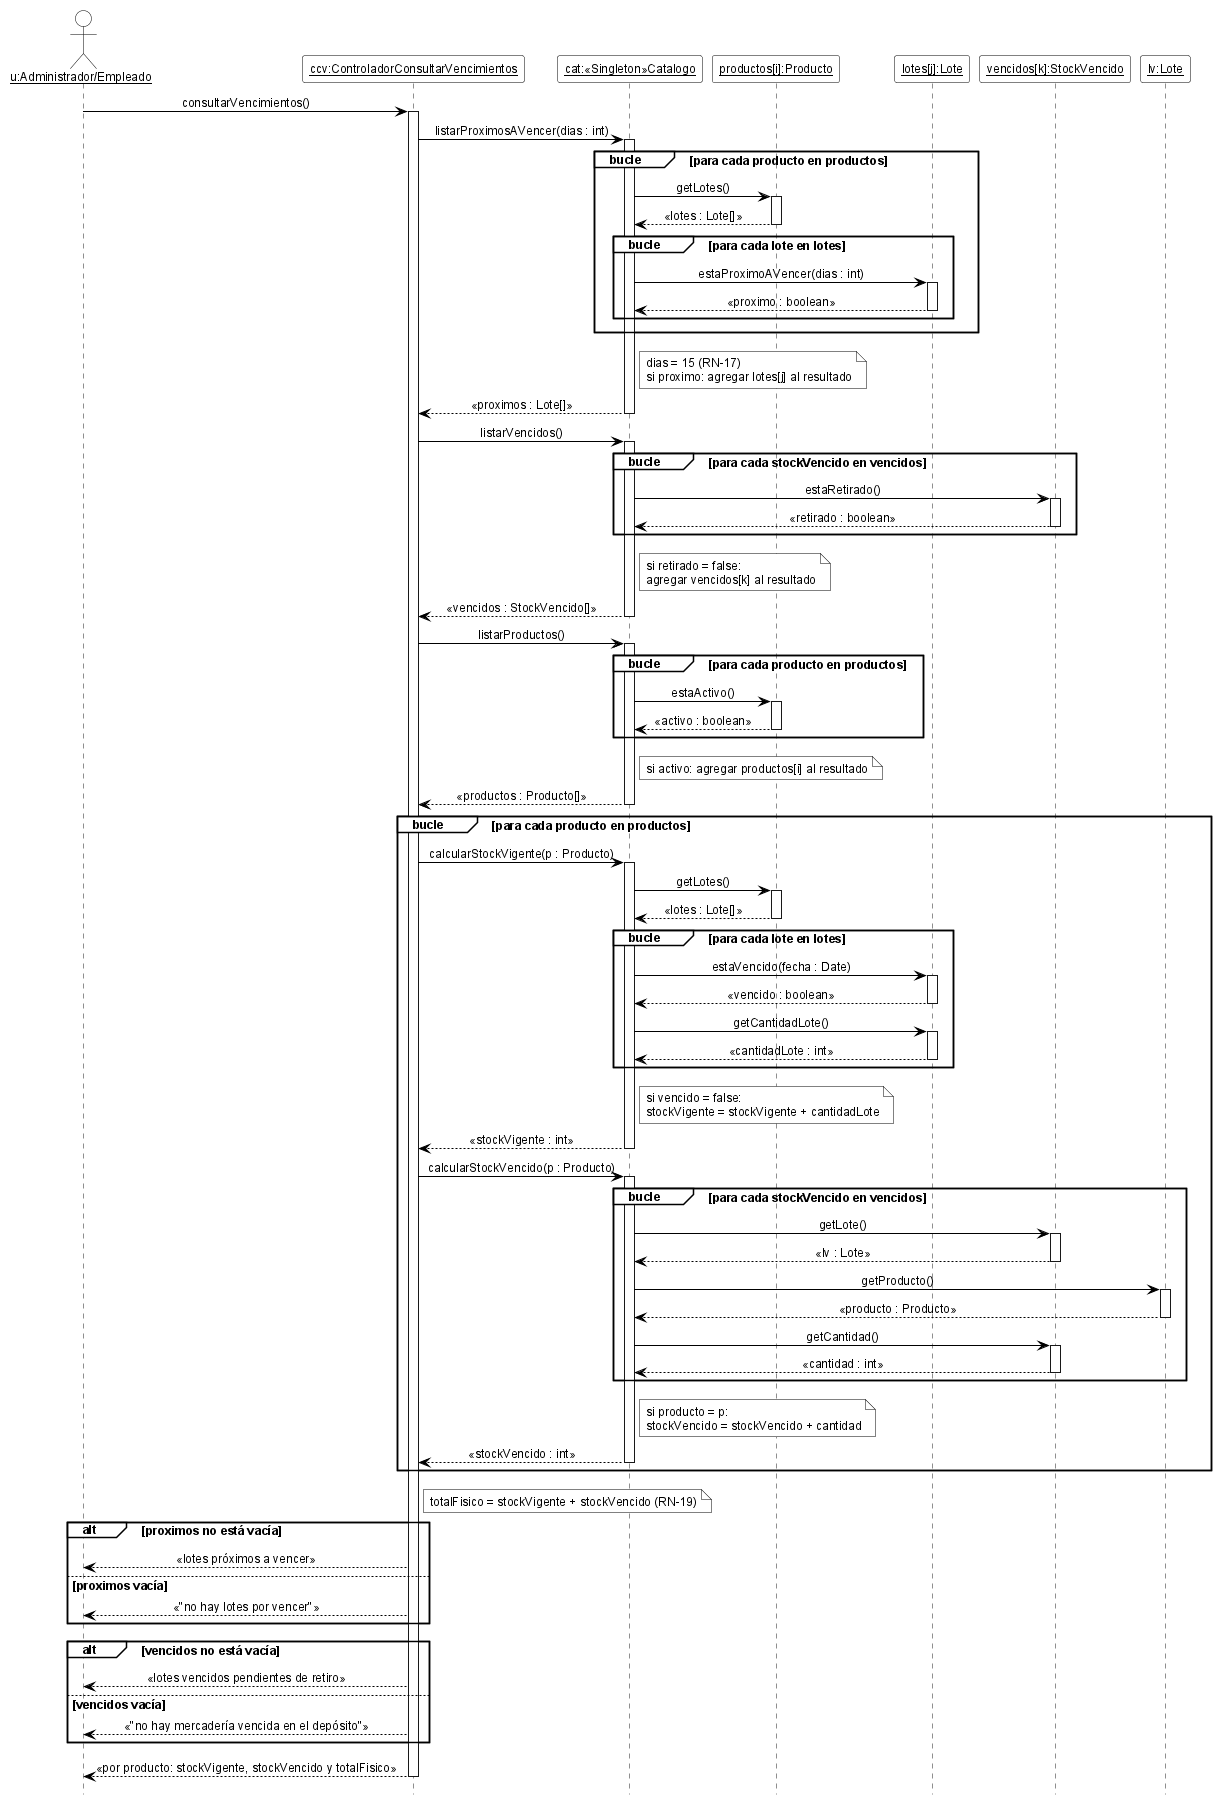
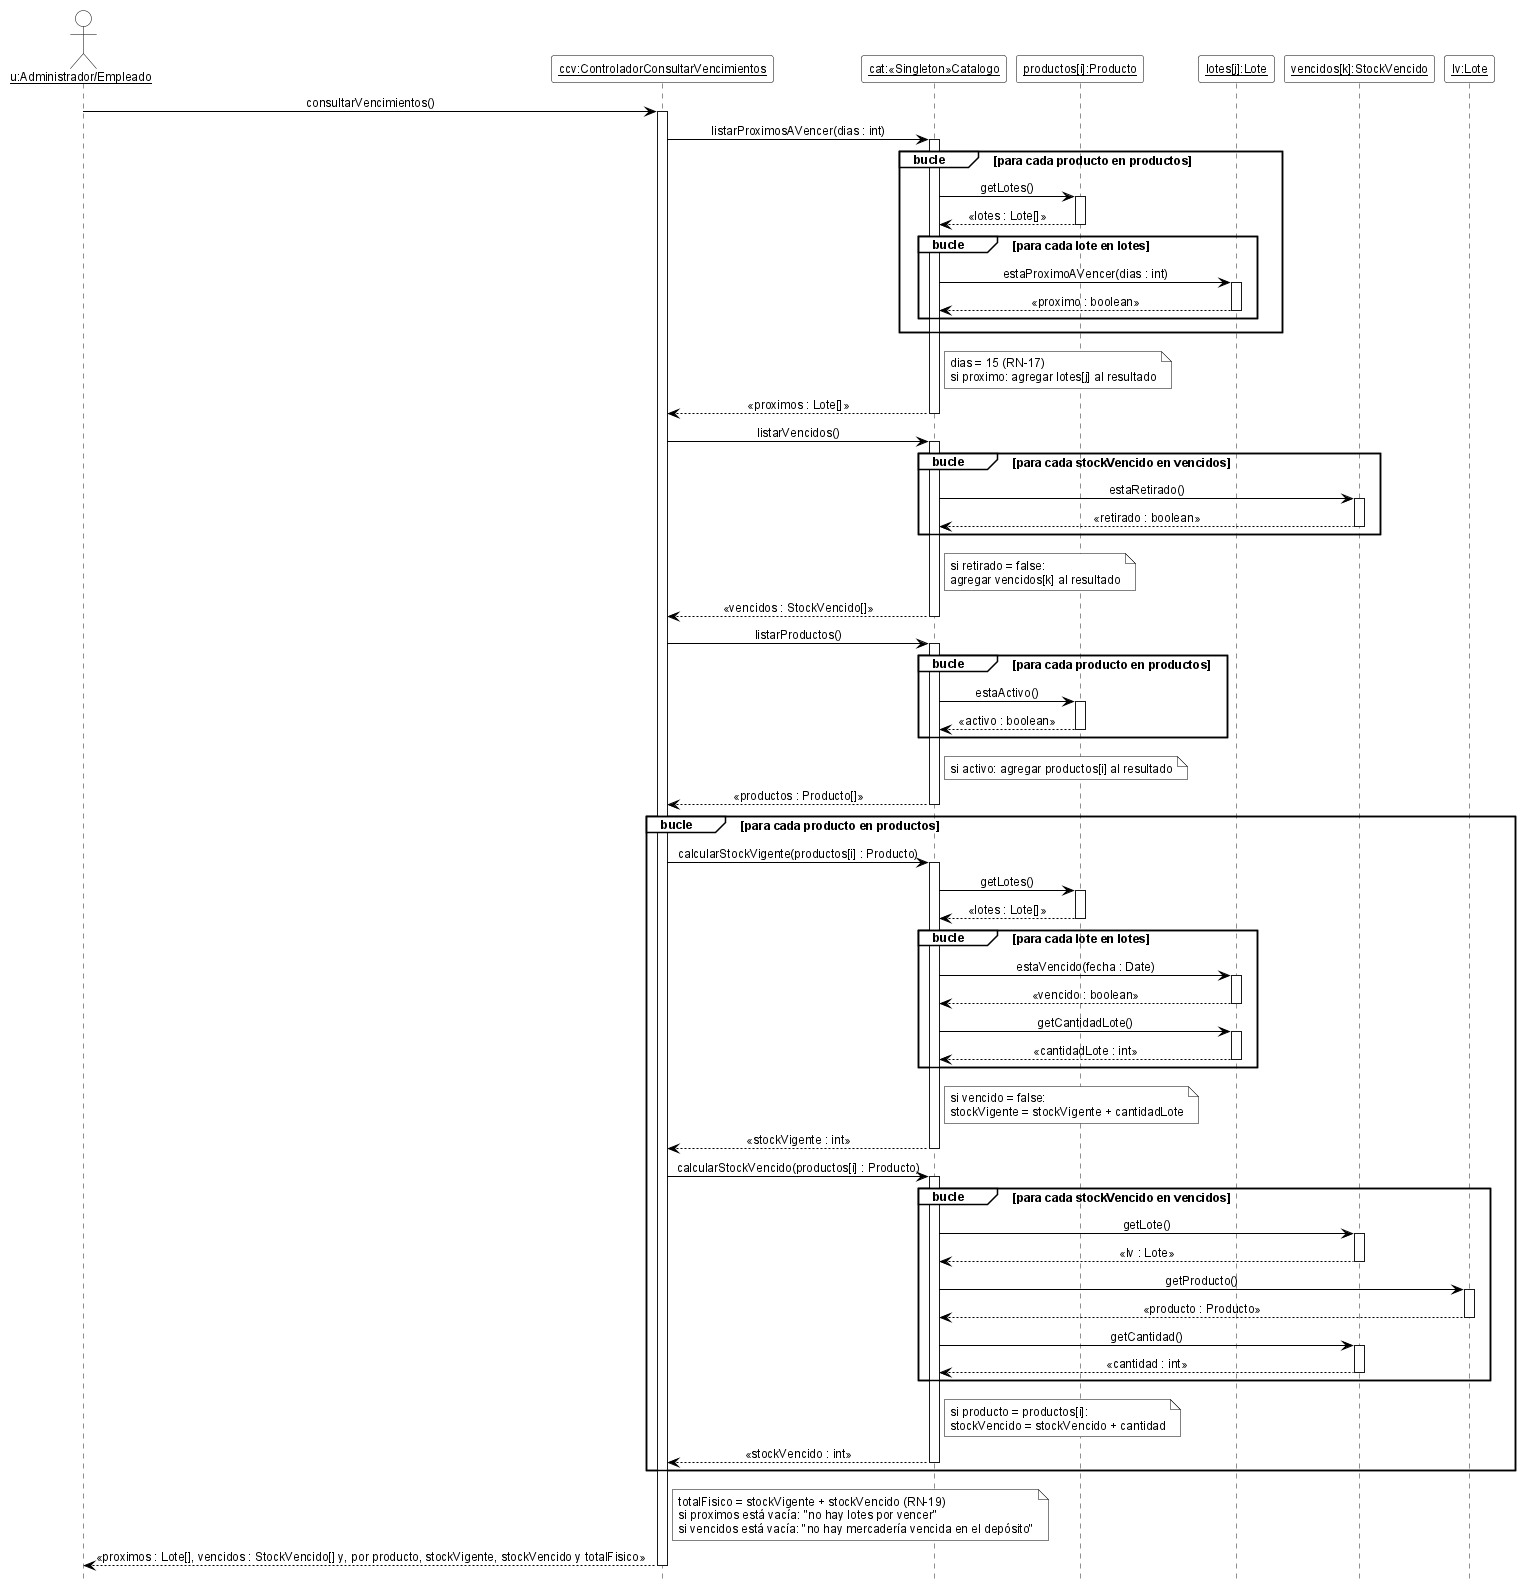
cambios

diff --git a/08-Diagrama De Secuencia/Diagramas_de_Secuencia.md b/08-Diagrama De Secuencia/Diagramas_de_Secuencia.md
@@ -813,10 +813,21 @@ participant "<u>lt:Lote</u>" as lt
 collections "<u>lotes:Lote</u>" as ml <<multiobjeto>>
 
 u -> cri ++ : confirmarIngreso()
-note right of cri : usa p, lt, nroLote, cantidad y fechaVencimiento\nobtenidos en registrarIngreso
+note right of cri : usa p, nroLote, cantidad y fechaVencimiento\nobtenidos en registrarIngreso
 create participant "<u>ing:IngresoMercaderia</u>" as ing
 cri -->> ing : registrar(p : Producto, nroLote : String, cantidad : int, fechaVencimiento : Date, responsable : Usuario)
 cri -> ing ++ : aplicar()
+ing -> p ++ : buscarLote(nroLote : String)
+group bucle [para cada lote en lotes]
+  p -> li ++ : getNroLote()
+  li --> p -- : «nro : String»
+end
+note right of p
+  si nro = nroLote
+  lt = lotes[i]
+  cortar iteración
+end note
+p --> ing -- : «lt : Lote»
 alt lt = null (lote nuevo)
   create participant "<u>nl:Lote</u>" as nl
   ing -->> nl : crear(p : Producto, nroLote : String, cantidad : int, fechaVencimiento : Date)
@@ -944,6 +955,7 @@ skinparam NoteBorderColor black
 
 actor "<u>adm:Administrador</u>" as adm
 participant "<u>cas:ControladorAjustarStock</u>" as cas
+participant "<u>cat:«Singleton»Catalogo</u>" as cat
 participant "<u>p:Producto</u>" as p
 participant "<u>lotes[i]:Lote</u>" as li
 participant "<u>lt:Lote</u>" as lt
@@ -968,12 +980,21 @@ alt cantidadReal ≥ 0 y motivo cargado
   aj -> lt ++ : corregirCantidad(cantidadReal : int)
   lt --> aj -- : «cantidadLote : int»
   aj --> cas -- : «true»
+  cas -> cat ++ : calcularStockVigente(p : Producto)
+  cat -> p ++ : getLotes()
+  p --> cat -- : «lotes : Lote[]»
+  group bucle [para cada lote en lotes]
+    cat -> li ++ : estaVencido(fecha : Date)
+    li --> cat -- : «vencido : boolean»
+    cat -> li ++ : getCantidadLote()
+    li --> cat -- : «cantidadLote : int»
+  end
+  note right of cat : si vencido = false:\nstockVigente = stockVigente + cantidadLote
+  cat --> cas -- : «stockVigente : int»
   cas -> p ++ : tieneStockBajo()
   p --> cas -- : «stockBajo : boolean»
-  opt stockBajo = true
-    note right of cas : el producto queda en el listado\nde stock bajo (RN-16)
-  end
-  cas --> adm : «ajuste registrado + stock vigente recalculado»
+  note right of cas : si stockBajo = true, el producto aparece\nen el listado de stock bajo (RN-16)
+  cas --> adm : «ajuste registrado + stockVigente»
 else cantidadReal negativa o falta el motivo
   cas --> adm : «"dato inválido o incompleto"»
 end
@@ -1250,7 +1271,7 @@ end
 note right of cat : si activo: agregar productos[i] al resultado
 cat --> ccv -- : «productos : Producto[]»
 group bucle [para cada producto en productos]
-  ccv -> cat ++ : calcularStockVigente(p : Producto)
+  ccv -> cat ++ : calcularStockVigente(productos[i] : Producto)
   cat -> pi ++ : getLotes()
   pi --> cat -- : «lotes : Lote[]»
   group bucle [para cada lote en lotes]
@@ -1261,7 +1282,7 @@ group bucle [para cada producto en productos]
   end
   note right of cat : si vencido = false:\nstockVigente = stockVigente + cantidadLote
   cat --> ccv -- : «stockVigente : int»
-  ccv -> cat ++ : calcularStockVencido(p : Producto)
+  ccv -> cat ++ : calcularStockVencido(productos[i] : Producto)
   group bucle [para cada stockVencido en vencidos]
     cat -> vi ++ : getLote()
     vi --> cat -- : «lv : Lote»
@@ -1270,21 +1291,15 @@ group bucle [para cada producto en productos]
     cat -> vi ++ : getCantidad()
     vi --> cat -- : «cantidad : int»
   end
-  note right of cat : si producto = p:\nstockVencido = stockVencido + cantidad
+  note right of cat : si producto = productos[i]:\nstockVencido = stockVencido + cantidad
   cat --> ccv -- : «stockVencido : int»
 end
-note right of ccv : totalFisico = stockVigente + stockVencido (RN-19)
-alt proximos no está vacía
-  ccv --> u : «lotes próximos a vencer»
-else proximos vacía
-  ccv --> u : «"no hay lotes por vencer"»
-end
-alt vencidos no está vacía
-  ccv --> u : «lotes vencidos pendientes de retiro»
-else vencidos vacía
-  ccv --> u : «"no hay mercadería vencida en el depósito"»
-end
-ccv --> u -- : «por producto: stockVigente, stockVencido y totalFisico»
+note right of ccv
+  totalFisico = stockVigente + stockVencido (RN-19)
+  si proximos está vacía: "no hay lotes por vencer"
+  si vencidos está vacía: "no hay mercadería vencida en el depósito"
+end note
+ccv --> u -- : «proximos : Lote[], vencidos : StockVencido[] y, por producto, stockVigente, stockVencido y totalFisico»
 
 @enduml
 ```
